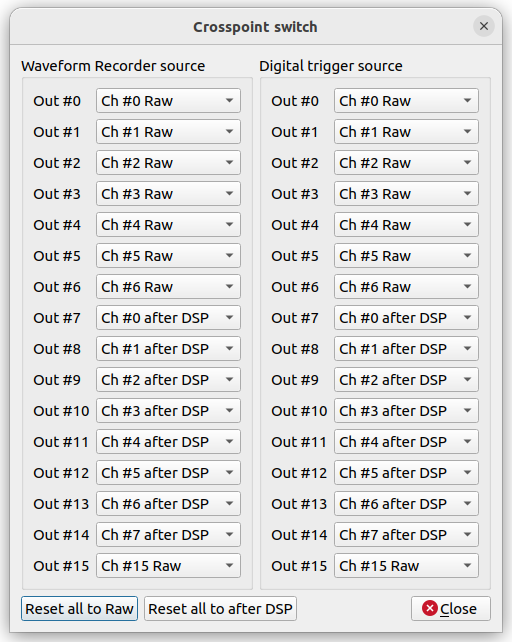
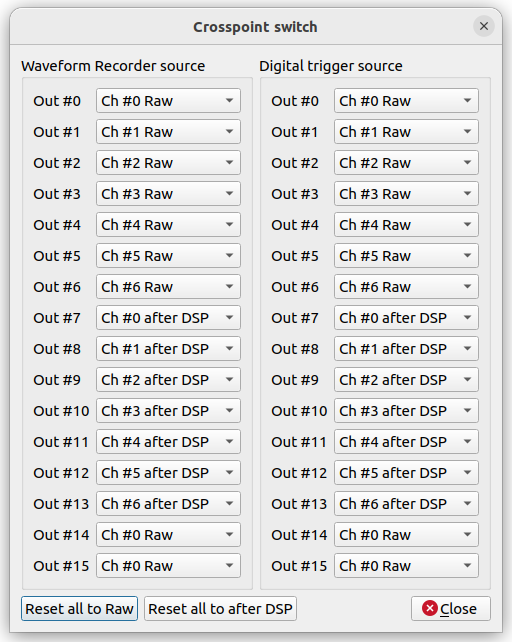
docs: update readme

diff --git a/tqdc-controller-rust/docs/detector-insturion/README.md b/tqdc-controller-rust/docs/detector-insturion/README.md
@@ -19,6 +19,7 @@
   - `AFI TQDC2 (PILA)` - приложение для настройки параметров набора платы 3
   - `frame-viewer (PILA)` - визуализация кадров в реальном времени для платы 3. В нынешнем варианте программа отображает кадры как они идут с платы, не корректируя базовую линию и не сдвигаясь на 2 бита.
   - `TQDC server (PILA)` - модуль для набора с помощью online для платы 3
+  - `TQDC server NO ZS (PILA)` - модуль для набора с помощью online для платы 3 без zero-suppression
   
 - Вспомогательные:
   - `Fix Network` - сбросить параметры сети. Используется, если программа AFI TQDC2 перестает видеть платы (пароль: `Neutrino`)
@@ -53,18 +54,29 @@
       Справа от обоих параметров отображается их значение в наносекундах.
 
     - Таблица каналов:
+      Карта каналов задается через таблицу `Crosspoint switch config...`, но лучше ее не трогать (если выставить для одного выхода разные значения правой и левой колонок, то конфигурация не сохранится и будет сброшена при перезапуске программы).
+      |                          |                                |
+      :-------------------------:|:-------------------------:
+      ![](./imgs/crosspoint-loc.png)  |  ![](./imgs/crosspoint.png)
+
+      По-умолчанию (при параметрах как на скриншоте):
+
+      Каналы 0..6 соответсвуют 1..7 до обработки фильтром. Для набора точки должны быть включены только они.
+
+      Каналы 7..13 соответсвуют 1..7 после обработки фильтром. Их можно включить для тестирования вместе с frame-viewer чтобы посмотреть что выдает фильтр.
+
       - столбец `TdcEn` должен быть отключен у всех каналов
       - задать в столбце `AdcEn` каналы, которые будут записаны.
       - столбец `Anlg Thr` не используется
-      - задать в столбце `DigTrigEn` каналы, используемые для триггера.
-      - задать в столбце `DigTrigThr` пороги для тригеров.
+      - задать в столбце `DigTrigEn` каналы, используемые для триггера. Т.к. мы привязываемся к триггеру после фильтра, должны использоваться каналы 7..13 (7-й соответвует 1-му, 8-й - 2-му и т.д.).
+      - задать в столбце `DigTrigThr` пороги для тригеров (то же самое, используем 7..13 каналы).
 
     **!!! Во время набора размер кадра должен быть не меньше 600 нс и все 7 каналов должны быть включены, в противном случае скорость счета не будет стабильной !!!**
 
 4. Проверить, что все задано как надо. Для этого можно запусить программу `frame-viewer (PILA)` и стартануть набор (серая кнопка `Start`). Если все настроено правильно, то в окне `frame-viewer` должны появляться кадры. После проверки остановить набор (кнопка `Stop`) и закрыть окно `frame-viewer`. Порядок включения/выключения важен.
 5. Запустить `TQDC server (PILA)`. Проверить что порог и фильтр заданы правильно (первые 2 строки в терминале). Если все хорошо - можно начинать набор.
     
-    *порог в `TQDC server (PILA)` должен быть в 4 раза меньше выставляемого в `AFI TQDC2 (PILA)`*
+    *Порог zero-suppression выставляется как самый минимальный из включенных в `AFI TQDC2 (PILA)` каналах*
 
 ## Возможные проблемы
 1. `AFI TQDC2 (PILA)` не видит плату:
